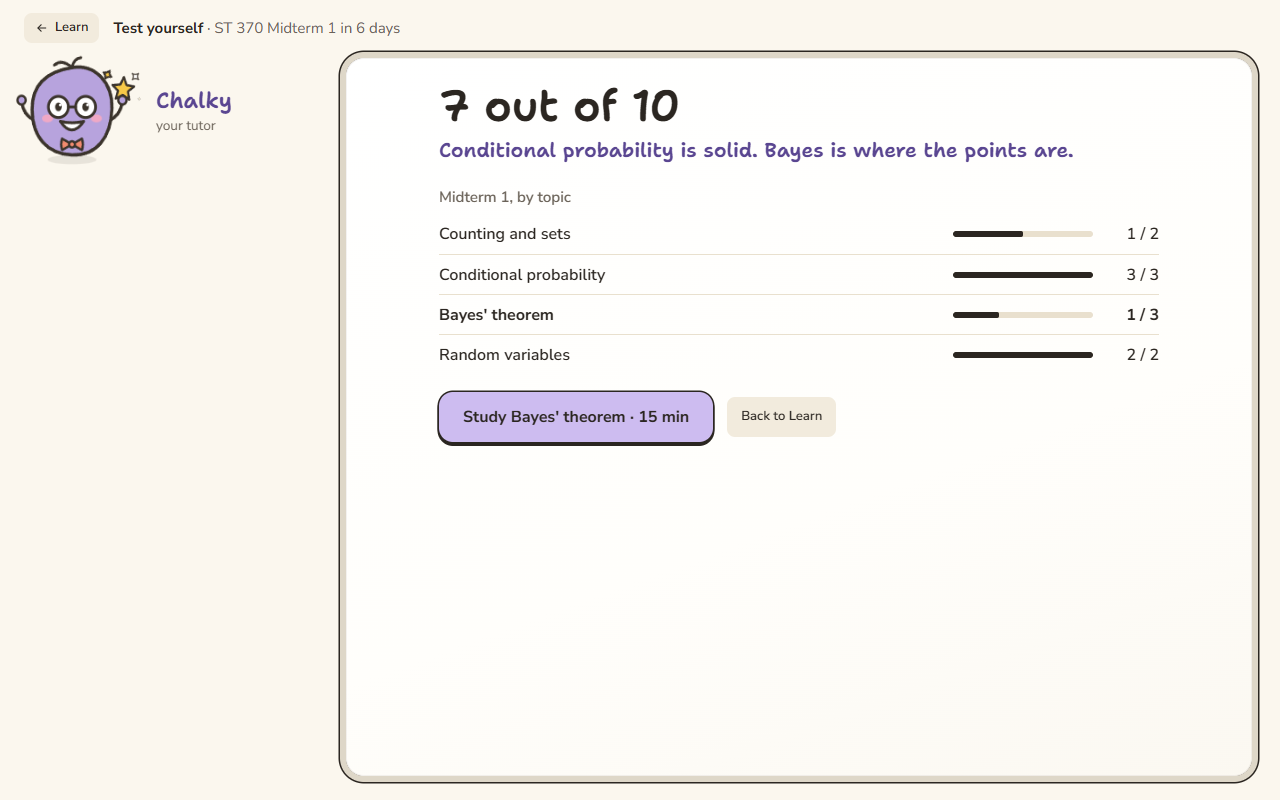
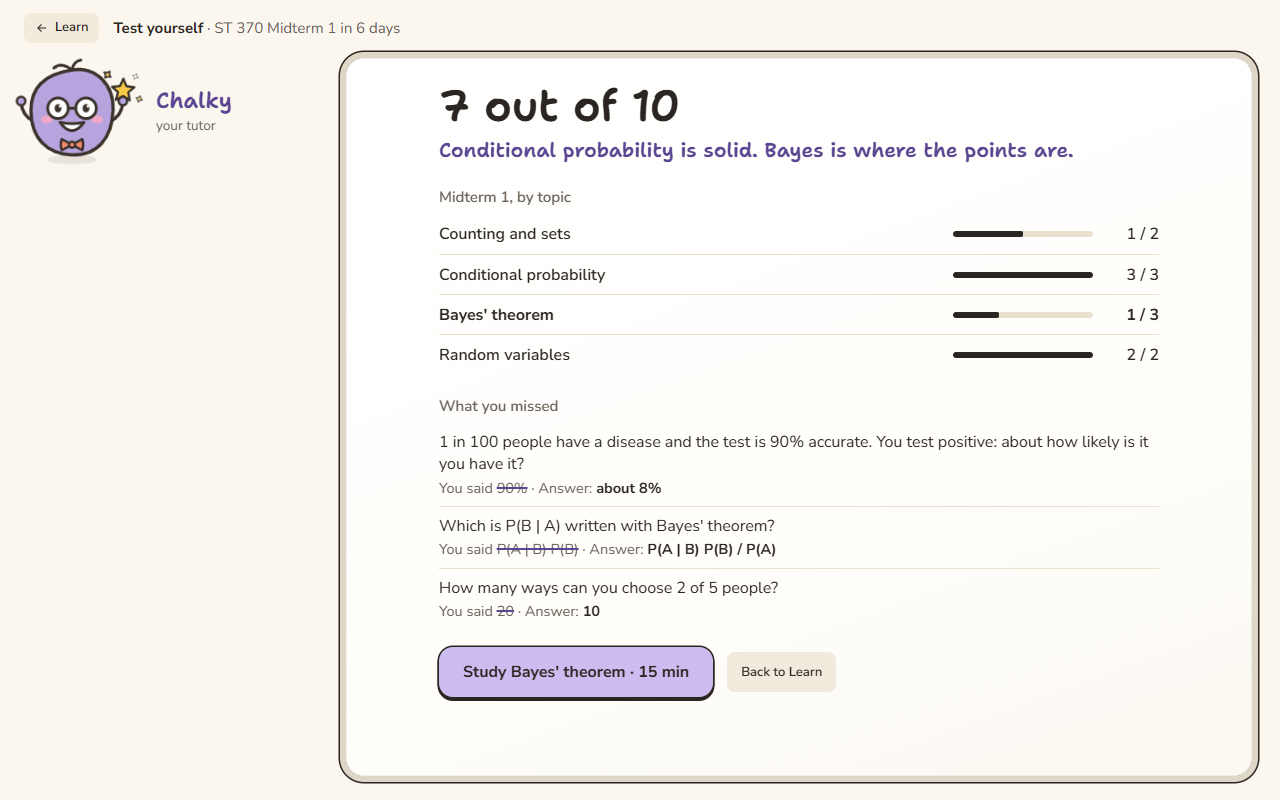
Lesson: an "I'm not sure" answer, a quieter clock, and what you missed
- Any question can be answered "I'm not sure". It is marked wrong, so
  Chalky teaches instead of the student guessing, and it can never be
  raised to right or cited as evidence.
- The minutes only show in the last three; the steps carry progress
  the rest of the time.
- Once a lesson is over the answer keys reach the screen, and the quiz
  result lists each missed question with what you said and the answer.

Changed region(s): [[0.3438, 0.4688, 0.875, 0.875], [0.0, 0.0625, 0.125, 0.1875]]

diff --git a/desktop/src/app/TutorScreen.tsx b/desktop/src/app/TutorScreen.tsx
@@ -179,7 +179,7 @@ export function TutorScreen({ initial, goal, courseLabel, topicTitle, lastRight,
             {TUTOR_PHASES.map((phase, index) => <i key={phase} className={wrapped || index < step ? "done" : index === step ? "now" : ""} />)}
             <span>{wrapped ? "Done" : `Step ${step + 1} of 5 · ${PHASE_NAMES[session.phase]}`}</span>
           </div>}
-          {!closed && <span className="tu-time">{session.wrapStartedAt ? "Wrapping up…" : `${Math.ceil(remaining / 60)} min left`}</span>}
+          {!closed && (session.wrapStartedAt || remaining <= 180) && <span className="tu-time">{session.wrapStartedAt ? "Wrapping up…" : `${Math.ceil(remaining / 60)} min left`}</span>}
           {session.status === "active" && <button className="rd-quiet" disabled={busy} onClick={() => void pause()}>Pause</button>}
         </div>
       </header>
@@ -312,6 +312,9 @@ function Answer({ view, question, sessionId, disabled, onAnswer, onHint, onMove,
   const canHint = question.tool === "tutor_ask_typed" && open && question.args.hasMoreHints;
   const needsTry = canHint && question.hintsUsed > 0 && !draft.trim();
   const given = result && (result.answer.kind === "typed" ? result.answer.answer : result.answer.kind === "explain" ? result.answer.text : null);
+  const unsure = result?.answer.kind === "unsure";
+  const notSure = open && <button type="button" className="rd-quiet tu-unsure" disabled={disabled} onClick={() => void onAnswer({ kind: "unsure" }).then(done => { if (done) localStorage.removeItem(draftKey); })}>I'm not sure</button>;
+  const said = (key: string) => <span key={key} className="tu-lab">Not sure</span>;
   const beside = reading ? "Chalky is reading it…" : view.move === "wait" ? "Chalky is writing…" : "";
   const action = <>
     <button ref={button} className="tu-btn" disabled={going ? false : disabled || !open || !ready}>
@@ -331,23 +334,24 @@ function Answer({ view, question, sessionId, disabled, onAnswer, onHint, onMove,
             </button>;
           })}
         </div>
-        <div className="tu-ans">{action}</div>
+        <div className="tu-ans">{action}{notSure}</div>
       </>}
       {question.tool === "tutor_ask_typed" && <div className="tu-ans">
         <span className="tu-lab">Your answer</span>
-        {view.tries.map((item, index) => item.answer.kind === "typed" && <s key={index} className="tu-was">{item.answer.answer}</s>)}
+        {view.tries.map((item, index) => item.answer.kind === "typed" ? <s key={index} className="tu-was">{item.answer.answer}</s> : item.answer.kind === "unsure" && said("try" + index))}
         {open ? <input ref={field} className="tu-field" autoFocus autoComplete="off" aria-label="Your answer" value={draft} maxLength={10000} disabled={disabled} onChange={event => edit(event.target.value)} />
           : result?.correct ? <><span className="tu-right">{given}</span><Tick /></>
-          : reading ? <span className="tu-given">{given}</span> : <s className="tu-was">{given}</s>}
+          : unsure ? said("now") : reading ? <span className="tu-given">{given}</span> : <s className="tu-was">{given}</s>}
         {action}
         {canHint && <button type="button" className="tu-hint" disabled={disabled || needsTry} onClick={() => { onHint(); field.current?.focus(); }}>{HINTS[Math.min(question.hintsUsed, 2)]}</button>}
+        {notSure}
       </div>}
       {question.tool === "tutor_ask_explain" && <>
-        {view.tries.map((item, index) => item.answer.kind === "explain" && <p key={index} className="tu-area is-sent is-was">{item.answer.text}</p>)}
+        {view.tries.map((item, index) => item.answer.kind === "explain" ? <p key={index} className="tu-area is-sent is-was">{item.answer.text}</p> : item.answer.kind === "unsure" && <p key={index} className="tu-lab">Not sure</p>)}
         {open ? <textarea className="tu-area" autoFocus aria-label="Your answer" value={draft} maxLength={10000} disabled={disabled} placeholder="Type it the way you'd say it out loud. Messy is fine." onChange={event => edit(event.target.value)} />
-          : <p className="tu-area is-sent">{given}</p>}
+          : unsure ? <p className="tu-lab">Not sure</p> : <p className="tu-area is-sent">{given}</p>}
         {question.args.points && <ul className="tu-points">{question.args.points.map((point, index) => <li key={index} className={point.met ? "" : "is-off"}>{point.met ? <Tick size={20} /> : <Dash />}<span>{!point.met && <b>Missing: </b>}{point.text}</span></li>)}</ul>}
-        <div className="tu-ans">{action}</div>
+        <div className="tu-ans">{action}{notSure}</div>
       </>}
       {needsTry && <p className="tu-lab">Type your best try first.</p>}
       {hints.length > 0 && <ol className="tu-hints">{hints.map((hint, index) => <li key={index} className="tu-w"><ChatMarkdown text={hint} /></li>)}</ol>}
@@ -369,6 +373,12 @@ function WrapUp({ session, goal, topicTitle, onStart, onLeave }: {
     const right = scores.reduce((sum, score) => sum + score.right, 0), total = scores.reduce((sum, score) => sum + score.total, 0);
     const weakest = [...scores].sort((a, b) => a.right / a.total - b.right / b.total)[0];
     const study = weakest && weakest.right < weakest.total ? weakest : null;
+    const missed = session.blocks.flatMap(block => {
+      if ((block.tool !== "tutor_ask_typed" && block.tool !== "tutor_ask_choice") || block.result?.correct !== false) return [];
+      const answer = block.result.answer;
+      return [{ blockId: block.blockId, question: block.args.question, key: block.args.key ?? null,
+        said: answer.kind === "typed" ? answer.answer : answer.kind === "choice" && block.tool === "tutor_ask_choice" ? block.args.options[answer.picked] ?? null : null }];
+    });
     return <>
       <h1 className="tu-score">{total ? `${right} out of ${total}` : "Quiz stopped."}</h1>
       {(result?.summary ?? session.error) && <div className="tu-w"><ChatMarkdown text={result?.summary ?? session.error!} /></div>}
@@ -376,6 +386,13 @@ function WrapUp({ session, goal, topicTitle, onStart, onLeave }: {
         <h2 className="tu-sec">{goal?.title ?? "Quiz"}, by topic</h2>
         <ul className="tu-bars">{scores.map(score => <li key={score.topicId} className={score === study ? "is-weak" : ""}>
           <span>{topicTitle(score.topicId)}</span><span className="lr-bar"><i style={{ width: `${Math.round(score.right / score.total * 100)}%` }} /></span><b>{score.right} / {score.total}</b>
+        </li>)}</ul>
+      </>}
+      {missed.length > 0 && <>
+        <h2 className="tu-sec">What you missed</h2>
+        <ul className="tu-missed">{missed.map(item => <li key={item.blockId}>
+          <span>{item.question}</span>
+          <small>{item.said ? <>You said <s>{item.said}</s></> : "Not sure"}{item.key && <> · Answer: <b>{item.key}</b></>}</small>
         </li>)}</ul>
       </>}
       <div className="tu-ans">

diff --git a/desktop/shared/tutor.ts b/desktop/shared/tutor.ts
@@ -81,6 +81,8 @@ export const TutorBlockAnswerSchema = z.discriminatedUnion("kind", [
   z.strictObject({ kind: z.literal("typed"), explored: explored.optional(), answer: text }),
   z.strictObject({ kind: z.literal("explain"), explored: explored.optional(), text }),
   z.strictObject({ kind: z.literal("model"), explored }),
+  /** "I'm not sure", on any question: marked wrong, so the tutor teaches instead of the student guessing. */
+  z.strictObject({ kind: z.literal("unsure"), explored: explored.optional() }),
 ]);
 export const TutorBlockResultSchema = z.strictObject({
   answer: TutorBlockAnswerSchema, correct: z.boolean().nullable(), hintsUsed: z.number().int().min(0).max(8), seconds: z.number().nonnegative(),
@@ -179,8 +181,8 @@ export function tutorExpiryTimeLeft(session: Pick<TutorSession, "budgetSeconds" 
 export const PublicTutorBlockSchema = z.discriminatedUnion("tool", [
   z.strictObject({ ...blockFields, tool: z.literal("tutor_say"), args: TutorSayInputSchema }),
   z.strictObject({ ...blockFields, tool: z.literal("tutor_reply"), args: TutorReplyInputSchema, replyTo: OpaqueIdSchema }),
-  z.strictObject({ ...blockFields, tool: z.literal("tutor_ask_choice"), args: z.strictObject({ ...topicScope, ...questionNote, question: text, options: z.array(z.string()) }) }),
-  z.strictObject({ ...blockFields, tool: z.literal("tutor_ask_typed"), args: z.strictObject({ ...topicScope, ...questionNote, question: text, steps, hints: z.array(z.string()), hasMoreHints: z.boolean() }) }),
+  z.strictObject({ ...blockFields, tool: z.literal("tutor_ask_choice"), args: z.strictObject({ ...topicScope, ...questionNote, question: text, options: z.array(z.string()), key: z.string().optional() }) }),
+  z.strictObject({ ...blockFields, tool: z.literal("tutor_ask_typed"), args: z.strictObject({ ...topicScope, ...questionNote, question: text, steps, hints: z.array(z.string()), hasMoreHints: z.boolean(), key: z.string().optional() }) }),
   z.strictObject({ ...blockFields, tool: z.literal("tutor_ask_explain"), args: z.strictObject({ ...topicScope, ...questionNote, prompt: text, steps, points: z.array(z.strictObject({ text: z.string(), met: z.boolean() })).optional() }) }),
   z.strictObject({ ...blockFields, tool: z.literal("tutor_show_model"), args: TutorModelInputSchema }),
   z.strictObject({ ...blockFields, tool: z.literal("tutor_show_page"), args: TutorShowPageInputSchema }),
@@ -227,7 +229,7 @@ export function boardView(session: PublicTutorSession, at?: string | null): Tuto
   const before = stops[index - 1] ?? null;
   const lead = notes(before?.sequence ?? -1, stop?.sequence ?? Infinity).filter(block => block.createdAt > (before?.answeredAt ?? ""));
   const latestTry = question?.attempts.at(-1)?.answeredAt ?? "";
-  const feedback = stop ? notes(stop.sequence, following?.sequence ?? Infinity).filter(block => block.createdAt > latestTry) : [];
+  const feedback = stop ? notes(stop.sequence, following?.sequence ?? Infinity).filter(block => block.createdAt >= latestTry) : [];
   const visuals = session.blocks.filter((block): block is TutorVisual => isVisual(block) && !block.erasedAt && block.status !== "cancelled");
   // Each message, then Chalky's reply to it.
   const chat: TutorBoardView["chat"] = session.messages.flatMap(message => [{ kind: "student" as const, id: message.messageId, text: message.text, createdAt: message.createdAt },
@@ -241,7 +243,7 @@ export function boardView(session: PublicTutorSession, at?: string | null): Tuto
     done: stops.slice(0, Math.max(index, 0)).filter(isQuestion).map(block => {
       const answer = block.result?.answer;
       return { blockId: block.blockId, question: block.tool === "tutor_ask_explain" ? block.args.prompt : block.args.question,
-        answer: !answer ? null : answer.kind === "typed" ? answer.answer : answer.kind === "explain" ? answer.text : answer.kind === "choice" && block.tool === "tutor_ask_choice" ? block.args.options[answer.picked] ?? null : null,
+        answer: !answer ? null : answer.kind === "unsure" ? "Not sure" : answer.kind === "typed" ? answer.answer : answer.kind === "explain" ? answer.text : answer.kind === "choice" && block.tool === "tutor_ask_choice" ? block.args.options[answer.picked] ?? null : null,
         correct: block.result?.correct ?? null };
     }),
     lead, question, note: question?.args.note ?? null,
@@ -252,10 +254,11 @@ export function boardView(session: PublicTutorSession, at?: string | null): Tuto
   };
 }
 export function publicTutorSession(session: TutorSession): PublicTutorSession {
+  const over = !["active", "paused"].includes(session.status);
   return PublicTutorSessionSchema.parse({ ...session, messages: session.messages.map(({ delivered: _delivered, ...message }) => message), blocks: session.blocks.map(block => {
     switch (block.tool) {
-      case "tutor_ask_choice": { const { correct: _correct, ...args } = block.args; return { ...block, args }; }
-      case "tutor_ask_typed": { const { accept: _accept, hints, ...args } = block.args; return { ...block, args: { ...args, hints: hints.slice(0, block.hintsUsed), hasMoreHints: block.hintsUsed < hints.length } }; }
+      case "tutor_ask_choice": { const { correct, ...args } = block.args; return { ...block, args: { ...args, ...(over ? { key: args.options[correct] } : {}) } }; }
+      case "tutor_ask_typed": { const { accept, hints, ...args } = block.args; return { ...block, args: { ...args, hints: hints.slice(0, block.hintsUsed), hasMoreHints: block.hintsUsed < hints.length, ...(over ? { key: accept[0] } : {}) } }; }
       case "tutor_ask_explain": {
         const { rubric, ...args } = block.args, met = block.result?.correct === null ? undefined : block.result?.met;
         return { ...block, args: { ...args, ...(met ? { points: rubric.map((text, index) => ({ text, met: met[index] })) } : {}) } };

diff --git a/desktop/electron/agent/tutor-tools.ts b/desktop/electron/agent/tutor-tools.ts
@@ -35,7 +35,7 @@ Use the session's time. Right answers mean raise the difficulty, not finish. Fin
 If an On-your-own answer shows a wrong idea, don't just state the fix and finish. Give a tiny concrete case where their assumption fails (for "sorted input is still quadratic", insertion sort on [1, 2, 3]), let them trace it and revise, then note it as missing. That answer had help, so cite only the unaided ones as evidence. Recaps and mock exams are entirely On your own: no teaching, just questions, then finish.
 
 # Tools
-Tools are fixed components, not HTML, except tutor_show_page. tutor_say writes a lesson note on the board: keep each to one or two sentences, and never send more than two in a row without giving them something to do. Ask one question at a time, and make each ask for one thing: don't bundle a trace, a count and an explanation into one question. Ask calls wait for the student. Model and page calls wait unless wait is false. Replies, updates and erasures never wait. Typed answers are checked by the app against your accept list: give sensible variants, not regexes. Write an explanation's rubric before seeing the answer, as short plain statements the student can read. Choice answers guide teaching but never prove mastery.
+Tools are fixed components, not HTML, except tutor_show_page. tutor_say writes a lesson note on the board: keep each to one or two sentences, and never send more than two in a row without giving them something to do. Ask one question at a time, and make each ask for one thing: don't bundle a trace, a count and an explanation into one question. Ask calls wait for the student. Model and page calls wait unless wait is false. Replies, updates and erasures never wait. Typed answers are checked by the app against your accept list: give sensible variants, not regexes. Write an explanation's rubric before seeing the answer, as short plain statements the student can read. Choice answers guide teaching but never prove mastery. The student can answer "I'm not sure" (kind unsure) to any question: it is marked wrong and is never evidence; treat it as not knowing yet and teach, don't ask them to guess.
 Use a visual when seeing or trying something teaches it better than words: tracing a sort, moving a base rate, stepping through recursion, a stack's top moving. On a topic like that, use at least one model or study page every session, even for a strong student: make it a prediction on a harder case. The built-in models (population grid, number line, function plot, flashcards, tables, JavaScript code runner) are the fast path. When none fits, write a study page with tutor_show_page: one self-contained HTML fragment (inline CSS and JS, no external URLs, no fetch, no forms) about one confusion or prediction. Label orientation, show before and after state, keep it consistent with the example you're discussing, and let the student predict or act before the page reveals the result. Call studi.explore("what they did") whenever they try something; that list is what you get back. Pages are saved to their study folder so they can reopen them. Code is instructional only.
 
 A worked example goes in steps, not in the sentence.

diff --git a/desktop/src/preview/learnFixtures.ts b/desktop/src/preview/learnFixtures.ts
@@ -147,8 +147,14 @@ export function learnPreview(id: string) {
       clicked: [{ before: "Speed at t = 3 is just 9, the distance.", after: "Speed is the slope the nearby slopes close in on: 6." }],
       cheatsheet: ["f′(a) is what (f(a + h) − f(a)) / h heads to as h shrinks", "If f(x) = x², then f′(x) = 2x"] } };
   if (id === "tutor-quiz") {
-    const q = (sequence: number, topicId: string, correct: boolean) => block(sequence, "independent", "tutor_ask_typed", { topicId, question: `Question ${sequence + 1}`, hints: [], hasMoreHints: false },
-      { answer: { kind: "typed", answer: "answer" }, correct, hintsUsed: 0, seconds: 30 });
+    const MISSED: Record<number, [string, string, string]> = {
+      4: ["1 in 100 people have a disease and the test is 90% accurate. You test positive: about how likely is it you have it?", "90%", "about 8%"],
+      5: ["Which is P(B | A) written with Bayes' theorem?", "P(A | B) P(B)", "P(A | B) P(B) / P(A)"],
+      9: ["How many ways can you choose 2 of 5 people?", "20", "10"],
+    };
+    const q = (sequence: number, topicId: string, correct: boolean) => block(sequence, "independent", "tutor_ask_typed",
+      { topicId, question: MISSED[sequence]?.[0] ?? `Question ${sequence + 1}`, hints: [], hasMoreHints: false, ...(MISSED[sequence] ? { key: MISSED[sequence]![2] } : {}) },
+      { answer: { kind: "typed", answer: MISSED[sequence]?.[1] ?? "answer" }, correct, hintsUsed: 0, seconds: 30 });
     const plan: [string, boolean][] = [["topic-1", true], ["topic-1", true], ["topic-1", true], ["topic-2", true], ["topic-2", false], ["topic-2", false], ["topic-3", true], ["topic-3", true], ["topic-0", true], ["topic-0", false]];
     tutor = { ...tutor, mode: "mock_exam", goal: "Check what I know across this exam", topicIds: ["topic-0", "topic-1", "topic-2", "topic-3"], status: "completed", phase: "wrap",
       activeSince: null, finishedAt: now(), blocks: plan.map(([topicId, correct], index) => q(index, topicId, correct)),
@@ -206,7 +212,7 @@ export function learnPreview(id: string) {
     },
     answerTutorBlock: async ({ blockId, answer }) => {
       const asked = tutor.blocks.find(item => item.blockId === blockId)!, key = "question" in asked.args ? KEYS[asked.args.question] : undefined;
-      const correct = answer.kind === "choice" ? answer.picked === (key ?? 0) : answer.kind === "typed" && key !== undefined ? answer.answer.trim() === key : null;
+      const correct = answer.kind === "unsure" ? false : answer.kind === "choice" ? answer.picked === (key ?? 0) : answer.kind === "typed" && key !== undefined ? answer.answer.trim() === key : null;
       const result = { answer, correct, ...(answer.kind === "typed" ? { matched: correct === true } : {}), hintsUsed: asked.hintsUsed, seconds: 10 };
       const again = correct === false && asked.attempts.length < 2;
       editBlocks(item => item.blockId === blockId ? { ...item, status: again ? "open" : "answered", answeredAt: again ? null : now(), firstAnsweredAt: item.firstAnsweredAt ?? now(), draft: "", result,

diff --git a/desktop/electron/storage/learn-records.ts b/desktop/electron/storage/learn-records.ts
@@ -417,7 +417,10 @@ export class LearnRepository {
       }
       if (block.status !== "open") throw new Error("This block is closed");
       let correct: boolean | null = null;
-      if (block.tool === "tutor_ask_choice" && answer.kind === "choice") {
+      if (answer.kind === "unsure") {
+        if (!isQuestion(block)) throw new Error("Answer does not match the open block");
+        correct = false;
+      } else if (block.tool === "tutor_ask_choice" && answer.kind === "choice") {
         if (answer.picked >= block.args.options.length) throw new Error("Choose an available option");
         correct = answer.picked === block.args.correct;
       } else if (block.tool === "tutor_ask_typed" && answer.kind === "typed") correct = typedAnswerMatches(block.args.accept, answer.answer);
@@ -452,7 +455,7 @@ export class LearnRepository {
         if (!input.met || input.met.length !== block.args.rubric.length) throw new Error("Mark every rubric point in order");
         if (block.result.correct !== null) throw new Error("This explanation is already marked");
       } else if (block.tool === "tutor_ask_typed") {
-        if (block.result.correct !== false || !input.correct || !input.equivalentTo || !block.args.accept.includes(input.equivalentTo)) throw new Error("Only raise a wrong typed answer by naming an accepted answer");
+        if (block.result.answer.kind !== "typed" || block.result.correct !== false || !input.correct || !input.equivalentTo || !block.args.accept.includes(input.equivalentTo)) throw new Error("Only raise a wrong typed answer by naming an accepted answer");
       } else throw new Error("Only typed answers and explanations can be marked");
       const result = { ...block.result, correct: input.correct, ...(block.tool === "tutor_ask_explain" ? { met: input.met! } : {}) };
       const attempts = block.attempts.map((attempt, index) => index === block.attempts.length - 1 ? { ...attempt, correct: input.correct } : attempt);

diff --git a/desktop/src/app/learn.css b/desktop/src/app/learn.css
@@ -258,6 +258,8 @@ button.lr-more:hover > span { text-decoration: underline; text-decoration-color:
 .tu-hint { min-height: 36px; padding: 0 12px; border: 0; border-radius: 10px; background: none; box-shadow: inset 0 0 0 1.5px color-mix(in srgb, var(--ink-chalky) 35%, transparent); font: 600 14.5px "Nunito Sans", sans-serif; color: var(--ink-chalky); cursor: pointer; }
 .tu-hint:disabled { opacity: 0.5; cursor: default; }
 .tu-hints { margin: 8px 0 0; padding: 0; list-style: none; }
+.rd-quiet.tu-unsure { min-height: 36px; background: none; color: var(--tu-label); font-size: 14.5px; }
+.rd-quiet.tu-unsure:hover:not(:disabled) { background: var(--blotter); color: var(--pencil); }
 
 /* Pick one: a lettered list in plain type. */
 .tu-opts { display: grid; margin-top: 14px; }
@@ -301,7 +303,13 @@ textarea.tu-area:focus { box-shadow: 0 0 0 2px var(--pencil), 0 0 0 6px var(--hi
 .tu-bars .lr-bar { height: 6px; border-radius: 3px; }
 .tu-bars b { text-align: right; font-weight: 600; font-variant-numeric: tabular-nums; }
 .tu-bars li.is-weak, .tu-bars li.is-weak b { font-weight: 700; }
-.tu-sec ~ .tu-ans, .tu-plain ~ .tu-ans, .tu-bars ~ .tu-ans { margin-top: 16px; }
+.tu-missed { margin: 0; padding: 0; list-style: none; }
+.tu-missed li { display: grid; gap: 2px; padding: 8px 0; border-top: 1.5px solid var(--blot2); font-size: 16px; line-height: 1.4; }
+.tu-missed li:first-child { border-top: 0; }
+.tu-missed small { font-size: 14.5px; color: var(--tu-label); }
+.tu-missed s { text-decoration: line-through var(--ink-chalky) 2px; }
+.tu-missed b { color: var(--pencil); }
+.tu-sec ~ .tu-ans, .tu-plain ~ .tu-ans, .tu-bars ~ .tu-ans, .tu-missed ~ .tu-ans { margin-top: 16px; }
 .tu-ans .rd-quiet { min-height: 40px; padding: 0 14px; }
 
 /* A narrow window: the board on top, Chalky and the chat in one row beneath it. */

diff --git a/docs/redesign/learn-v2/PLAN.md b/docs/redesign/learn-v2/PLAN.md
@@ -482,7 +482,7 @@ Draw everything from `boardView(session)` (B7). The screen makes no layout decis
 
 | Region | Holds |
 |---|---|
-| Top bar, 56px | "← Lessons"; the topic and the goal; five marks with "Step 2 of 5 · Learn"; minutes left; "Pause" |
+| Top bar, 56px | "← Learn"; the topic and the goal; five marks with "Step 2 of 5 · Learn"; minutes left, only in the last three minutes (a clock running the whole lesson read as a deadline); "Pause" |
 | Side chat, 300px on the left | Chalky at 112px with its name; the conversation; the chat box |
 | The board, the rest | One column, 720px, centred on the board |
 
